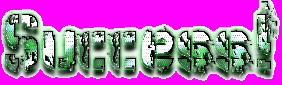
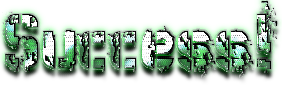
Added animation class to engine. Added suppot for alpha channel to engine. Added click animation when switch clicked, for visual feedback. Replaced text and button with original translucent versions. Fixed comparison between signed and unsigned int in keyboard.

diff --git a/src/WCEngine/ResourceManager.cpp b/src/WCEngine/ResourceManager.cpp
@@ -44,6 +44,17 @@ namespace gdn
 		images["tutorial 3"].LoadFromFile( "media/bg_tutorial_3.png" );
 		images["tutorial 4"].LoadFromFile( "media/bg_tutorial_4.png" );
 
+		images["click 1"].LoadFromFile( "media/click_01.png", true );
+		images["click 2"].LoadFromFile( "media/click_02.png", true );
+		images["click 3"].LoadFromFile( "media/click_03.png", true );
+		images["click 4"].LoadFromFile( "media/click_04.png", true );
+		images["click 5"].LoadFromFile( "media/click_05.png", true );
+		images["click 6"].LoadFromFile( "media/click_06.png", true );
+		images["click 7"].LoadFromFile( "media/click_07.png", true );
+		images["click 8"].LoadFromFile( "media/click_08.png", true );
+		images["click 9"].LoadFromFile( "media/click_09.png", true );
+		images["click 10"].LoadFromFile( "media/click_10.png", true );
+
 		// Game graphics
 		images["conveyor 02"].LoadFromFile( "media/conveyor_dir_02.png" );
 		images["conveyor 13"].LoadFromFile( "media/conveyor_dir_13.png" );
@@ -102,14 +113,14 @@ namespace gdn
 		images["truck 0"].LoadFromFile( "media/truck_dir0.png" );
 		images["truck 1"].LoadFromFile( "media/truck_dir1.png" );
 
-		images["button pause"].LoadFromFile( "media/button_pause.png" );
-		images["button pause active"].LoadFromFile( "media/button_pause_on.png" );
-		images["button quit"].LoadFromFile( "media/button_quit.png" );
-		images["button quit active"].LoadFromFile( "media/button_quit_on.png" );
+		images["button pause"].LoadFromFile( "media/button_pause.png", true );
+		images["button pause active"].LoadFromFile( "media/button_pause_on.png", true );
+		images["button quit"].LoadFromFile( "media/button_quit.png", true );
+		images["button quit active"].LoadFromFile( "media/button_quit_on.png", true );
 
-		images["text paused"].LoadFromFile( "media/text_paused.png" );
-		images["text fail"].LoadFromFile( "media/text_fail.png" );
-		images["text win"].LoadFromFile( "media/text_win.png" );
+		images["text paused"].LoadFromFile( "media/text_paused.png", true );
+		images["text fail"].LoadFromFile( "media/text_fail.png", true );
+		images["text win"].LoadFromFile( "media/text_win.png", true );
 
 		images["keyboard"].LoadFromFile( "media/keyboard.png" );
 

diff --git a/src/WCEngine/Animation.cpp b/src/WCEngine/Animation.cpp
@@ -1,0 +1,107 @@
+#include "Animation.h"
+#include "Application.h"
+
+namespace gdn
+{
+	Animation::Animation() : Sprite()
+	{
+		isLooping = false;
+		isPlaying = false;
+		fps = 1.0f;
+		curFrame = 0.0f;
+		App.AddAnimation( this );
+	}
+
+	Animation::Animation( Image& newimage ) : Sprite( newimage )
+	{
+		isLooping = false;
+		isPlaying = false;
+		fps = 1.0f;
+		curFrame = 0.0f;
+		frames.push_back( &newimage );
+		App.AddAnimation( this );
+	}
+
+	Animation::~Animation()
+	{
+		App.RemoveAnimation( this );
+	}
+
+	void Animation::SetImage( Image& newimage )
+	{
+		frames[curFrame] = &newimage;
+		Sprite::SetImage( newimage );
+	}
+
+	void Animation::Play()
+	{
+		isPlaying = true;
+
+		// Restart if animation was done
+		if ( curFrame >= (float)frames.size() )
+		{
+			curFrame = 0.0f;
+		}
+	}
+
+	bool Animation::IsPlaying()
+	{
+		return isPlaying;
+	}
+
+	void Animation::Pause()
+	{
+		isPlaying = false;
+	}
+
+	void Animation::Stop()
+	{
+		isPlaying = false;
+		curFrame = 0.0f;
+	}
+
+	void Animation::Step()
+	{
+		if ( isPlaying && frames.size() > 0 )
+		{
+			curFrame += fps;
+
+			// Wrap around if looping
+			while ( isLooping && curFrame >= (float)frames.size() )
+			{
+				curFrame -= (float)frames.size();
+			}
+
+			// Done?
+			if ( curFrame >= (float)frames.size() )
+			{
+				isPlaying = false;
+			}
+			else
+			{
+				image = frames[(int)curFrame];
+			}
+		}
+	}
+
+	void Animation::SetLoop( bool loop )
+	{
+		isLooping = loop;
+	}
+
+	void Animation::SetSpeed( float fps )
+	{
+		this->fps = fps;
+	}
+
+	void Animation::AddFrame( Image& newimage )
+	{
+		frames.push_back( &newimage );
+
+		// First frame then use it
+		if ( frames.size() == 1 )
+		{
+			image = &newimage;
+		}
+	}
+}

diff --git a/src/SceneGame.cpp b/src/SceneGame.cpp
@@ -92,6 +92,18 @@ void SceneGame::Initialize()
 	popup = NULL;
 	background = gdn::Sprite( ResMgr.GetImage( "level" ) );
 
+	// Click animation
+	click = gdn::Animation();
+	click.SetLoop( false );
+	click.SetSpeed( 0.5f );
+	for ( int frameidx = 1; frameidx <= 10; ++frameidx )
+	{
+		std::stringstream name;
+		name << "click " << frameidx;
+		click.AddFrame( ResMgr.GetImage( name.str() ) );
+	}
+	click.SetCenter( click.GetImage()->GetWidth() / 2, click.GetImage()->GetHeight() / 2 );
+
 	// Sounds
 	sndSwitch = gdn::Sound( ResMgr.GetSound( "switch" ) );
 	sndClick = gdn::Sound( ResMgr.GetSound( "click" ) );
@@ -217,6 +229,8 @@ void SceneGame::Step()
 							if ( c.isSwitch )
 							{
 								c.Switch();
+								click.SetPosition( TransformMapToScreen( c.pos ) );
+								click.Play();
 								sndSwitch.Play();
 							}
 						}
@@ -595,6 +609,9 @@ void SceneGame::Draw()
 	if ( popup )
 		App.GetWindow().Draw( *popup );
 
+	if ( click.IsPlaying() )
+		App.GetWindow().Draw( click );
+
 	/*stringstream time;
 	time << "TIME   " << (level.levelTime / App.GetFPS());
 	str_time.SetText( time.str() );
@@ -640,7 +657,7 @@ Object* SceneGame::FindClickedObject( gdn::Vector2f& screenpos )
 {
 	// Offset mouse coordinate by half, as tiles are placed center, while coords start upper left
 	Object* res = NULL;
-	float bestDistSQ = 50 * 50;
+	float bestDistSQ = 30 * 30; // Max click distance
 	for (std::list<Object*>::iterator it = clickables.begin(); it != clickables.end(); ++it )
 	{
 		gdn::Vector2f curPos = TransformMapToScreen( (**it).pos );

diff --git a/src/WCEngine/Application.cpp b/src/WCEngine/Application.cpp
@@ -4,6 +4,7 @@
 #include "SDL/SDL_mixer.h"
 #include "EventManager.h"
 #include "Scene.h"
+#include "Animation.h"
 #include "Timer.h"
 #include <ctime>
 #include <cstdlib>
@@ -63,6 +64,24 @@ namespace gdn
 		scenes[ scene->GetName() ] = scene;
 	}
 
+	void Application::AddAnimation( Animation* anim )
+	{
+		if ( anim )
+			animations.push_back( anim );
+	}
+
+	void Application::RemoveAnimation( Animation* anim )
+	{
+		for ( std::list<Animation*>::iterator it = animations.begin(); it != animations.end(); ++it )
+		{
+			if ( *it == anim )
+			{
+				animations.erase( it );
+				break;
+			}
+		}
+	}
+
 	void Application::Run()
 	{
 		// Small safety incase we call run before calling Init()
@@ -88,6 +107,13 @@ namespace gdn
 				ProcessGameEvents();
 
 				Step();
+
+				// Step all animations
+				for ( std::list<Animation*>::iterator it = animations.begin(); it != animations.end(); ++it )
+				{
+					(**it).Step();
+				}
+
 				nextStepFrame += 1.0f / physicsFps;
 
 				// Check volume control

diff --git a/src/WCEngine/Animation.h b/src/WCEngine/Animation.h
@@ -1,0 +1,43 @@
+#ifndef ANIMATION_H
+#define ANIMATION_H
+
+#include "Vector2f.h"
+#include "Image.h"
+#include "Sprite.h"
+#include <vector>
+
+namespace gdn
+{
+	class Animation : public Sprite
+	{
+		public:
+			Animation();
+			Animation( Image& firstFrame );
+			virtual ~Animation();
+
+			void Play();
+			bool IsPlaying();
+			void Pause();
+			void Stop();
+			void Step();
+
+			void SetLoop( bool loop );
+			void SetSpeed( float fps );
+
+			void AddFrame( Image& newimage );
+			Image* GetFrame( int idx = CURRENT_FRAME );
+			void SetImage( Image& newimage ); // Sets current image
+
+		protected:
+			enum FRAME_IDX { CURRENT_FRAME = -1 };
+			std::vector<Image*> frames;
+			bool isLooping;
+			bool isPlaying;
+			float fps; // Frames per step
+			float curFrame;
+
+		private:
+	};
+}
+
+#endif // ANIMATION_H

diff --git a/src/WCEngine/Application.h b/src/WCEngine/Application.h
@@ -1,9 +1,11 @@
 #ifndef APP_H
 #define APP_H
 
+#include "RenderWindow.h"
+
 #include <string>
 #include <map>
-#include "RenderWindow.h"
+#include <list>
 
 
 
@@ -20,6 +22,7 @@ namespace gdn
 	// Forward decl.
 	class Scene;
 	class Timer;
+	class Animation;
 
 	class Application
 	{
@@ -32,6 +35,9 @@ namespace gdn
 
 		void AddScene( Scene* scene );
 		gdn::RenderWindow& GetWindow();
+
+		void AddAnimation( Animation* anim );
+		void RemoveAnimation( Animation* anim );
 
 		int GetWidth();
 		int GetHeight();
@@ -61,6 +67,8 @@ namespace gdn
 		// Current scene (game, menu, highscore etc.)
 		Scene* curScene;
 		std::map< std::string, Scene* > scenes;
+
+		std::list< Animation* > animations;
 
 	private:
 		static Application* instance;

diff --git a/src/WCEngine/Image.cpp b/src/WCEngine/Image.cpp
@@ -18,7 +18,7 @@ namespace gdn
 		}
 	}
 
-	bool Image::LoadFromFile( std::string filename )
+	bool Image::LoadFromFile( std::string filename, bool useAlpha )
 	{
 		if ( texture )
 		{
@@ -27,7 +27,11 @@ namespace gdn
 		}
 
 		SDL_Surface* loadedImage = IMG_Load( filename.c_str() );
-		if ( loadedImage )
+		if ( useAlpha )
+		{
+			texture = loadedImage;
+		}
+		else if ( loadedImage )
 		{
 			// Optimize image for display surface
 			texture = SDL_DisplayFormat( loadedImage );

diff --git a/src/Keyboard.cpp b/src/Keyboard.cpp
@@ -63,7 +63,7 @@ void Keyboard::Step()
 	if ( timer > 0 )
 		--timer;
 
-	if ( text.length() > maxStringLength and timer == 0 )
+	if ( (int)text.length() > maxStringLength and timer == 0 )
 		text.erase( text.end() - 1 );
 
 	if (curMouseDown and !isMouseDown)

diff --git a/src/WCEngine/Image.h b/src/WCEngine/Image.h
@@ -12,7 +12,7 @@ namespace gdn
 		public:
 			Image();
 			virtual ~Image();
-			bool LoadFromFile( std::string filename );
+			bool LoadFromFile( std::string filename, bool useAlpha = false );
 
 			int GetWidth();
 			int GetHeight();

diff --git a/src/SceneGame.h b/src/SceneGame.h
@@ -61,6 +61,7 @@ class SceneGame : public gdn::Scene
 		gdn::Sprite pbuttonQuit;
 		gdn::Sprite* popup;
 		gdn::Sprite background;
+		gdn::Animation click;
 
 		gdn::Sound sndSwitch;
 		gdn::Sound sndClick;

diff --git a/src/WCEngine/GDN.h b/src/WCEngine/GDN.h
@@ -7,6 +7,7 @@
 #include "EventManager.h"
 #include "Scene.h"
 #include "Sprite.h"
+#include "Animation.h"
 #include "SoundBuffer.h"
 #include "Sound.h"
 #include "Music.h"
